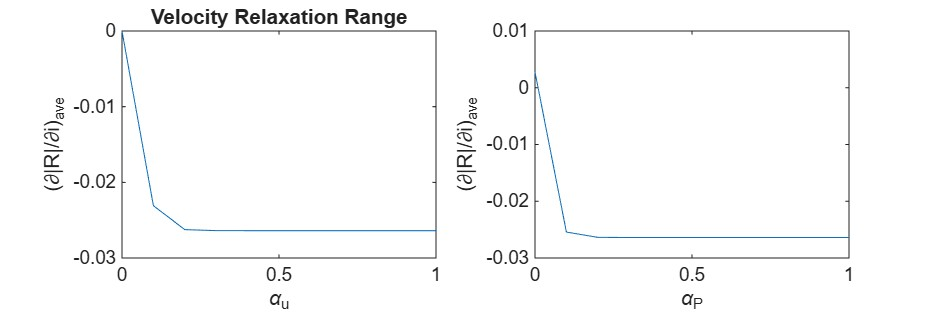
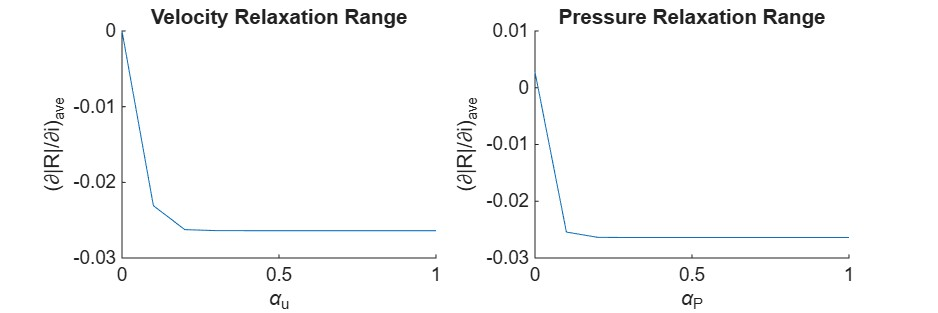
Fixed Subplot Titles
Only 1 title applied to plot when there are multiple subplots, required addition of hold on and hold off options.

Changed region(s): [[0.5874, 0.0288, 0.8966, 0.115], [0.1237, 0.0863, 0.4638, 0.115]]

diff --git a/Nozzle.m b/Nozzle.m
@@ -13,6 +13,7 @@ global u_Ai u_Bi P_2i
 u_Ai = 5/3;
 u_Bi = 5;
 P_2i = 25;
+
 %% Relaxation Searches
 
 N=50;
@@ -30,32 +31,38 @@ writematrix(a_p_R_array,"Search.xlsx","Sheet","Pressure");
 %%
 figure(Theme="light",Position=[0 0 600 400]);
 subplot(2,1,1)
+hold on
 title("Residuals from Relaxation Parameters")
 plot(iter,a_u_R_array);
 ylabel("|R|")
 xlabel("Iteration")
 legend("\alpha_u = "+a_range')
+hold off
 subplot(2,1,2)
 dR = diff(a_u_R_array(:,2:end),1,2);
 plot(iter(2:end-1),dR)
-title("Change of Residuals over ")
+title("Change of Residual over Iterations")
 ylabel("\partial|R|/\partiali")
 xlabel("Iteration")
 saveas(gcf,"./Figures/Residual_Derivative.jpg")
 %%
 figure(Theme="light",Position=[0 0 600 200]);
 subplot(1,2,1)
+hold on
 title("Velocity Relaxation Range")
 dR_ave = mean(diff(a_u_R_array(:,2:end),1,2),2);
 plot(a_range,dR_ave)
 ylabel("(\partial|R|/\partiali)_{ave}")
 xlabel("\alpha_u")
+hold off
 subplot(1,2,2)
+hold on
 title("Pressure Relaxation Range")
 dR_ave = mean(diff(a_p_R_array(:,2:end),1,2),2);
 plot(a_range,dR_ave)
 ylabel("(\partial|R|/\partiali)_{ave}")
 xlabel("\alpha_P")
+hold off
 saveas(gcf,"./Figures/Relaxation_Range.jpg")
 %%
 %Velocity relaxation factor
